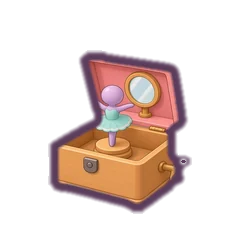
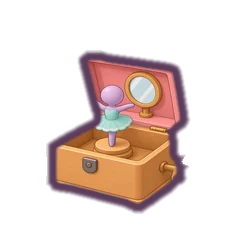
art: nursery QA round 3 - erase music-box crank speck, round baby-bottle teat (no spike), fill nursery-lamp pinhole; in-game bounds test passes exactly ±TOL

diff --git a/scripts/art_process_open.py b/scripts/art_process_open.py
@@ -51,8 +51,42 @@ def seal_faint(fg,al):
         bad=np.isin(lab,1+np.where(clear==0)[0])
         fg[bad]=ap.OUTLINE; al[bad]=255
     return fg,al
+def tidy(fg,al):
+    """Drop solid specks cut off from the body (with their faint halo), fill
+    1-30 px clear pinholes, and with OPEN="kind:r" shave silhouette parts thinner
+    than 2r px (e.g. a teat tip that turns into a plum spike) and re-lay the edge."""
+    solid=al>=200; lab,n=ndi.label(solid)
+    if n>1:
+        sz=ndi.sum(solid,lab,index=np.arange(1,n+1)); keep=np.isin(lab,1+np.where(sz>=60)[0])
+        _,(iy,ix)=ndi.distance_transform_edt(~solid,return_indices=True)
+        owner=keep[iy,ix]; drop=(al>0)&~owner
+        al[drop]=0
+        if drop.any():   # soften the notch the dropped halo leaves
+            N=ndi.binary_dilation(drop,iterations=4)&(al>0)&(al<255)
+            b=ndi.gaussian_filter(al.astype(float),1.0); al[N]=np.minimum(al[N],b[N])
+    clear=al==0; hl,hn=ndi.label(ndi.binary_fill_holes(~clear)&clear)
+    for i in range(1,hn+1):
+        m=hl==i
+        if m.sum()<30: fg[m]=ap.OUTLINE; al[m]=255
+    r=OPEN.get(cur.get('kind'))
+    if r:
+        m=al>=128; yy,xx=np.mgrid[-r:r+1,-r:r+1]; o=ndi.binary_opening(m,structure=(xx*xx+yy*yy)<=r*r)
+        rows=np.where(m.any(1))[0]; top=np.zeros_like(m); top[:rows[0]+int(0.2*(rows[-1]-rows[0]))]=True   # top fifth only
+        cut=ndi.binary_dilation(m&~o&top,iterations=3)&~ndi.binary_dilation(o,iterations=1)&top
+        al[cut]=0
+        if cut.any():   # re-lay the soft edge only around the cut
+            near=ndi.binary_dilation(cut,iterations=10)&(al>0)
+            d=ndi.distance_transform_edt(np.pad(al>0,1))[1:-1,1:-1]
+            fg[near&(d<=ap.CONTOUR_PX)]=ap.OUTLINE
+            for i,a in enumerate(ap.RAMP,1):
+                mm=near&(d>i-1)&(d<=i); al[mm]=np.minimum(al[mm],a)
+    lab,n=ndi.label(al>0)   # one island: drop faint crumbs left off the body
+    if n>1:
+        sz=ndi.sum(al>0,lab,index=np.arange(1,n+1)); al[(lab>0)&(lab!=1+int(np.argmax(sz)))]=0
+    return fg,al
+OPEN={t.split(':')[0]:int(t.split(':')[1]) for t in (os.environ.get('OPEN') or '').split(',') if t}
 _f=finish
-finish=lambda fg,al,ring: seal_faint(*_f(fg,al,ring))
+finish=lambda fg,al,ring: tidy(*seal_faint(*_f(fg,al,ring)))
 ap.finish=finish
 # SHRINK="kind:fx:fy,..." scales the fitted box about its bottom centre (feet stay put),
 # for refitting to the in-game alpha>0 size measured by tests/art_ingame_bounds.py.
@@ -70,6 +104,6 @@ import json
 items={i['kind']:i for i in json.load(open(sys.argv[1]))}
 rawdir,group=sys.argv[2],sys.argv[3]
 for k in sys.argv[4:]:
-    cur['mask']=os.path.join(rawdir,k+'.open.png')
+    cur['mask']=os.path.join(rawdir,k+'.open.png'); cur['kind']=k
     out,size,st=ap.build(items[k],os.path.join(rawdir,k+'.jpg'),group)
     print(f"{k} {size}B stretch {st:.2f}{' STRETCH' if abs(st-1)>.18 else ''}",flush=True)

diff --git a/tests/art_ingame_bounds.py b/tests/art_ingame_bounds.py
@@ -69,7 +69,7 @@ async def main():
         dh = ((a['b'] - a['t']) / (s['b'] - s['t']) - 1) * 100
         feet = (a['b'] - s['b']) / s['w'] * 100
         cx = ((a['l'] + a['r']) / 2 - (s['l'] + s['r']) / 2) / s['w'] * 100
-        ok = abs(dw) <= TOL and abs(dh) <= TOL
+        ok = round(abs(dw), 1) <= TOL and round(abs(dh), 1) <= TOL   # exactly ±TOL passes
         fails += not ok
         rows.append(dict(kind=k, dw=round(dw, 1), dh=round(dh, 1), feet=round(feet, 1), cx=round(cx, 1), ok=ok))
         print(f"{'OK' if ok else 'FAIL'} {k:18} dw={dw:+5.1f}% dh={dh:+5.1f}% feet={feet:+4.1f}% cx={cx:+4.1f}%", flush=True)
